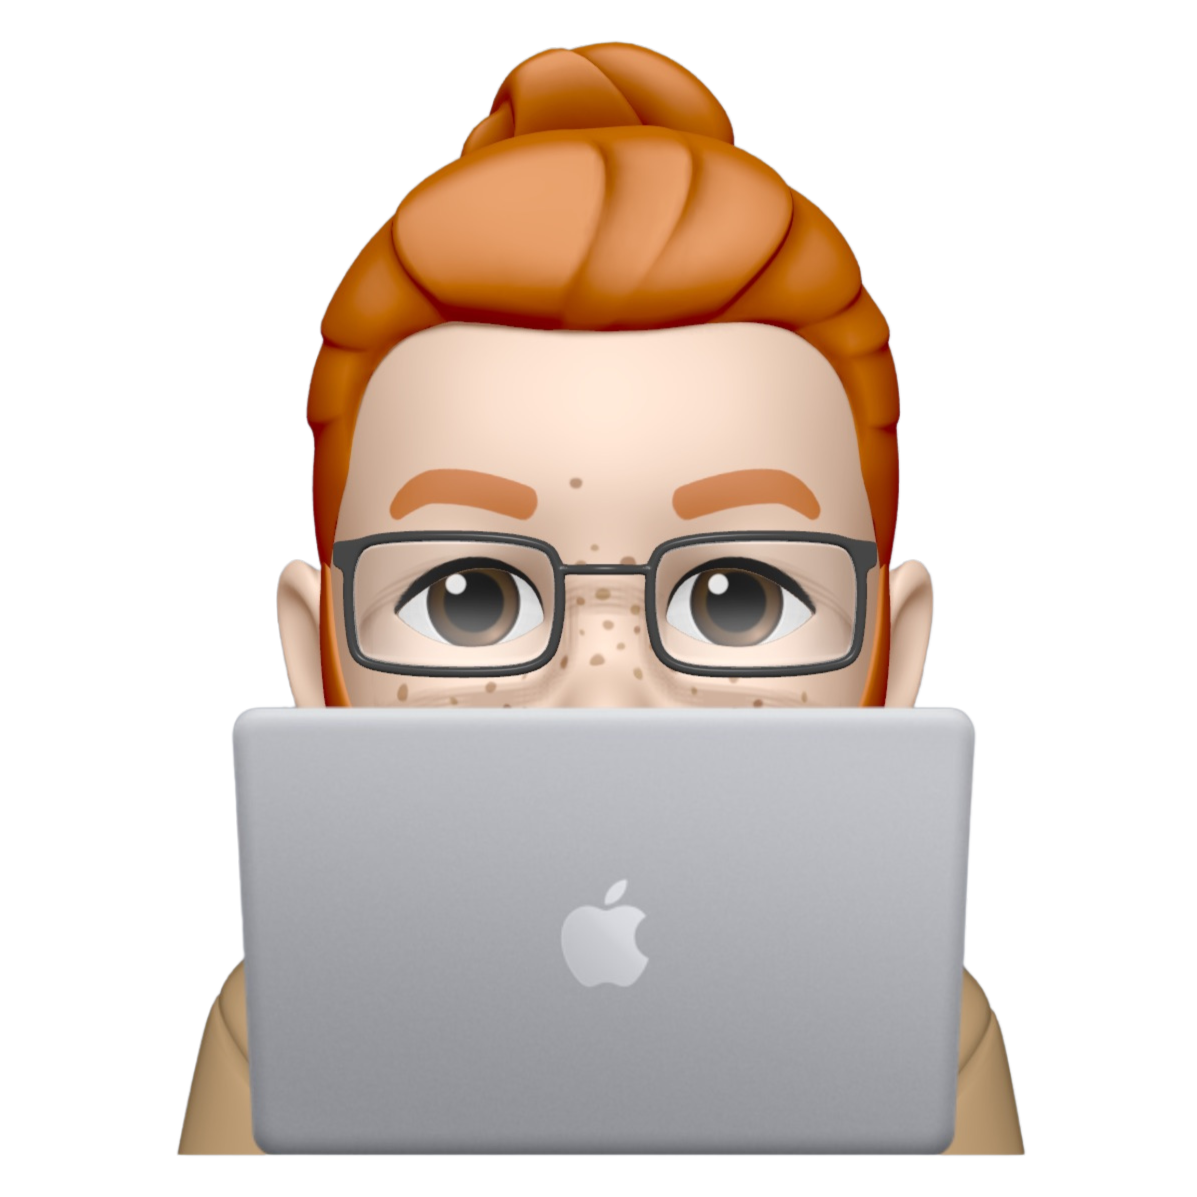
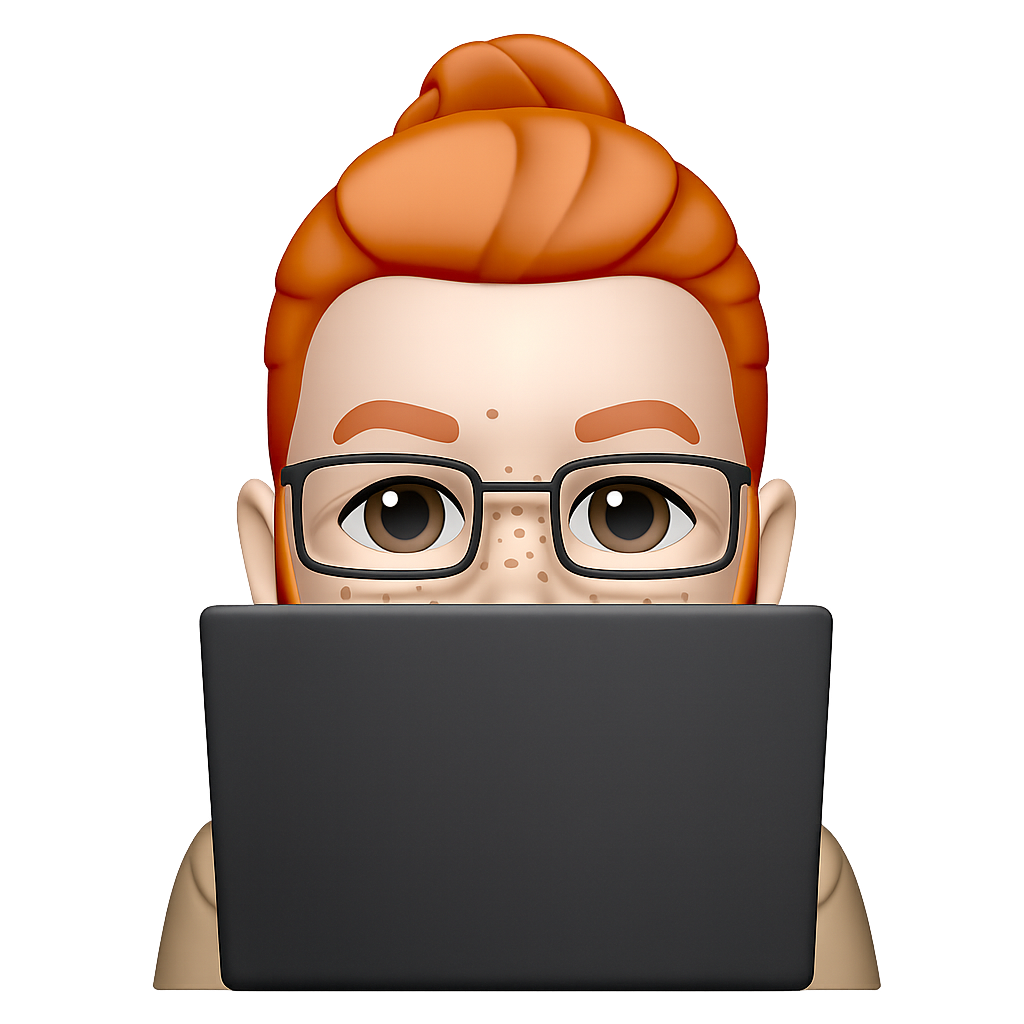
remove images, change laptop color

diff --git a/src/sections/Footer copy.tsx b/src/sections/Footer copy.tsx
@@ -1,0 +1,60 @@
+import ArrowUpRightIcon from '@/assets/icons/arrow-up-right.svg'
+
+const footerLinks = [
+  {
+    title: 'Resume',
+    href: 'https://coltonresume.com',
+  },
+  {
+    title: 'LinkedIn',
+    href: 'https://www.linkedin.com/in/colecodes/',
+  },
+  {
+    title: 'GitHub',
+    href: 'https://www.github.com/colecodesdev/',
+  },
+]
+
+export const Footer = () => {
+  return (
+    <footer className="relative z-10 mt-24 overflow-x-clip pb-10">
+      <div className="pointer-events-none absolute bottom-0 left-1/2 -z-10 h-[400px] w-[1600px] -translate-x-1/2 bg-emerald-300/12 [mask-image:radial-gradient(50%_50%_at_bottom_center,black,transparent)]" />
+
+      <div className="container">
+        <div className="rounded-3xl border border-white/10 bg-white/[0.03] px-6 py-8 backdrop-blur-sm md:px-8 md:py-10">
+          <div className="flex flex-col gap-8 md:flex-row md:items-end md:justify-between">
+            <div className="max-w-md">
+              <p className="bg-gradient-to-r from-emerald-300 to-sky-400 bg-clip-text text-sm font-semibold uppercase tracking-[0.3em] text-transparent">
+                Cole Reilly
+              </p>
+
+              <p className="mt-4 text-sm leading-6 text-white/60 md:text-base">
+                Built with a focus on production-ready frontend work, cloud infrastructure,
+                and real-world engineering execution.
+              </p>
+
+              <p className="mt-6 text-sm text-white/35">
+                &copy; 2025 Cole Reilly. All rights reserved.
+              </p>
+            </div>
+
+            <nav className="flex flex-col items-start gap-4 md:items-end">
+              {footerLinks.map((link) => (
+                <a
+                  href={link.href}
+                  key={link.title}
+                  target="_blank"
+                  rel="noreferrer"
+                  className="inline-flex items-center gap-2 font-semibold text-white/70 transition hover:text-white"
+                >
+                  <span>{link.title}</span>
+                  <ArrowUpRightIcon className="size-4 opacity-70" />
+                </a>
+              ))}
+            </nav>
+          </div>
+        </div>
+      </div>
+    </footer>
+  )
+}

diff --git a/src/sections/Footer.tsx b/src/sections/Footer.tsx
@@ -23,9 +23,9 @@ export const Footer = () => {
       <div className="container">
         <div className="flex flex-col items-center gap-8 border-t border-white/10 py-6 text-sm md:flex-row md:justify-between">
 
-          <div className="text-white/35">
-            &copy; 2025. All rights reserved.
-          </div>
+            <p className="bg-gradient-to-r from-emerald-300 to-sky-400 bg-clip-text text-sm font-semibold uppercase tracking-[0.3em] text-transparent">
+                  Colton Reilly
+            </p>
 
           <nav className="flex flex-col items-center gap-6 md:flex-row md:gap-8">
             {footerLinks.map((link) => (
